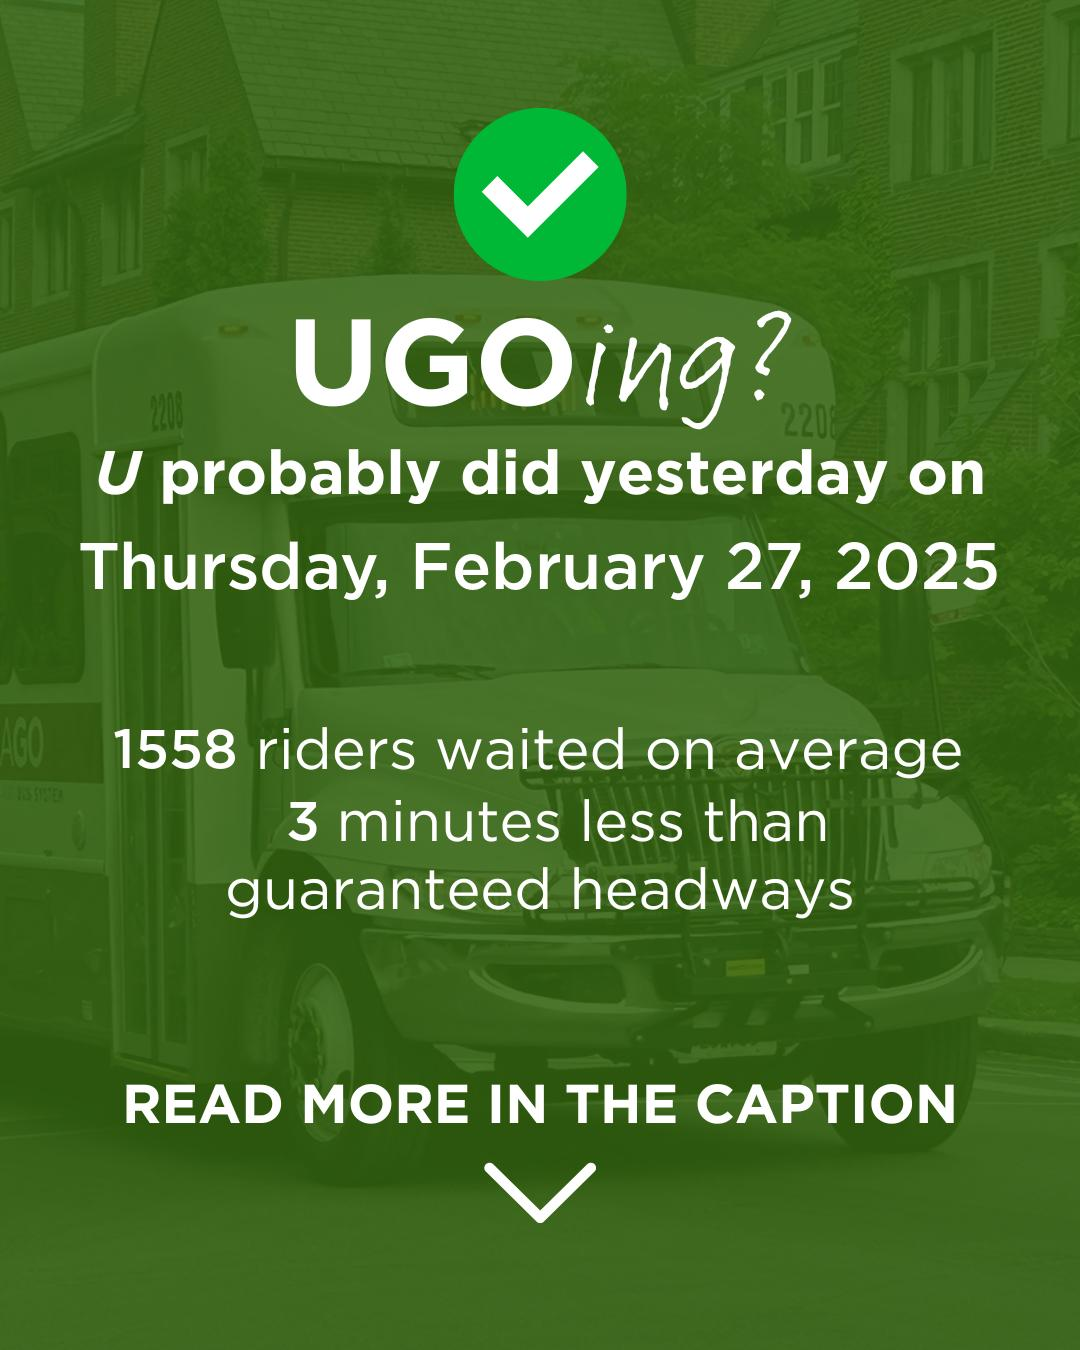
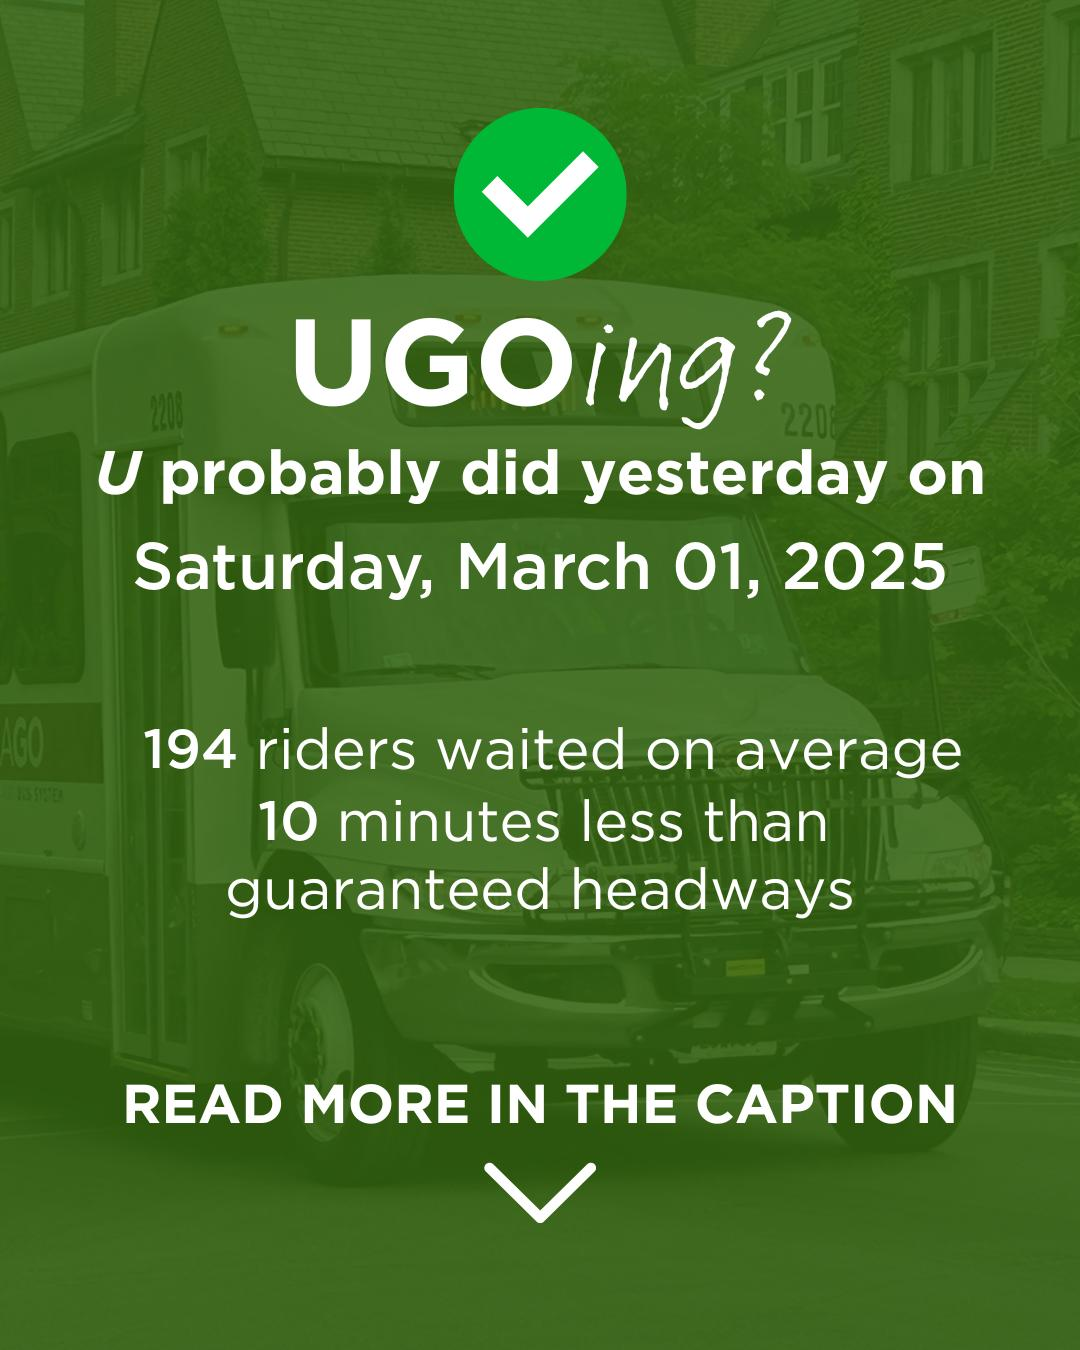
Update, attempted image for bsky

Changed region(s): [[0.0611, 0.4044, 0.9472, 0.4667], [0.0917, 0.5289, 0.2139, 0.5911], [0.2444, 0.5911, 0.3056, 0.6222]]

diff --git a/util.py b/util.py
@@ -6,6 +6,7 @@ import requests
 from datetime import datetime, date, time, timedelta
 import io
 import pytz
+from PIL import Image, ImageDraw, ImageFont
 #import passiogo  https://github.com/athuler/PassioGo
 
 from secret import API_KEY
@@ -156,17 +157,17 @@ def route_averages(timetype='day'):
     
         # Check both route ID and route name
         if route_id == 48618 or route_name == 'Red Line/Arts Block':
-            daytime_score[route_name] = headway - 30
+            daytime_score[route_name] = headway - 20
         elif route_id == 38732 or route_name == '53rd Street Express':
             daytime_score[route_name] = headway - 30
         elif route_id == 38729 or route_name == 'Apostolic':
             daytime_score[route_name] = headway - 30
         elif route_id == 38730 or route_name == 'Apostolic/Drexel':
-            daytime_score[route_name] = headway - 30
-        elif route_id == 38728 or route_name == 'Dresel':
-            daytime_score[route_name] = headway - 30
+            daytime_score[route_name] = headway - 15
+        elif route_id == 38728 or route_name == 'Drexel':
+            daytime_score[route_name] = headway - 10
         elif route_id == 50198 or route_id == 50199 or route_name == 'Downtown Campus Connector':
-            daytime_score[route_name] = headway - 30
+            daytime_score[route_name] = headway - 20
         elif route_id == 38731 or route_id == 38809 or route_name == 'Midway Metra':
             daytime_score[route_name] = headway - 30
         else:
@@ -196,7 +197,7 @@ def route_averages(timetype='day'):
         elif route_id == 40515 or route_name == 'Regents Express':
             nightime_score[route_name] = headway - 30
         elif route_name == 'South Loop Shuttle':
-            nightime_score[route_name] = headway - 30
+            nightime_score[route_name] = headway - 60
         else:
             pass
 
@@ -256,12 +257,12 @@ def call_them_out(timetype='day'):
                 #print(f"{route_name} ran {abs(int(delay))} minutes ahead of schedule on average")
                 ontime_daytime += 1
     
-    daytime_ratio = ontime_daytime / total_daytime
-    nighttime_ratio = ontime_nighttime / total_nighttime
+    daytime_ratio = ontime_daytime / total_daytime if total_daytime else 0
+    nighttime_ratio = ontime_nighttime / total_nighttime if total_daytime else 0
     total_ratio = (ontime_daytime + ontime_nighttime) / (total_daytime + total_nighttime)
-    average_delay = np.mean(delaynums)
-    average_delay_daytime = np.mean(delaynums_daytime)
-    average_delay_nighttime = np.mean(delaynums_nighttime)
+    average_delay = np.mean(delaynums) if len(delaynums) > 0 else 0
+    average_delay_daytime = np.mean(delaynums_daytime) if len(delaynums_daytime) > 0 else 0
+    average_delay_nighttime = np.mean(delaynums_nighttime) if len(delaynums_nighttime) > 0 else 0
 
     return daytime_ratio, nighttime_ratio, delayed_daytime_routes, delayed_nighttime_routes, average_delay, average_delay_daytime, average_delay_nighttime, total_ratio
 
@@ -431,12 +432,14 @@ def generate_status_text():
     message3 = ""
     
     # Format daytime information
-    daytime_pct = f"{round(daytime_ratio * 100, 1)}%"
-    message2 += f"☀ During the day, {daytime_pct} of daytime routes ran on time."
-    if delayed_daytime_routes and (average_delay_daytime is not None):
-        routes_str = ", ".join(delayed_daytime_routes)
-        message2 += f" The {routes_str} routes suffered delays averaging {round(average_delay_daytime, 1)} minutes."
-    #message2 += "\n"
+    if daytime_ratio == 0:
+        message2 = f"Daytime routes did not run yesterday, {date_str}. Daytime shuttle routes run Monday through Friday"
+    else:
+        daytime_pct = f"{round(daytime_ratio * 100, 1)}%"
+        message2 = f"☀ During the day, {daytime_pct} of daytime routes ran on time."
+        if delayed_daytime_routes and (average_delay_daytime is not None):
+            routes_str = ", ".join(delayed_daytime_routes)
+            message2 += f" The {routes_str} routes suffered delays averaging {round(average_delay_daytime, 1)} minutes."
     
     # Format nighttime information
     nighttime_pct = f"{round(nighttime_ratio * 100, 1)}%"
@@ -446,5 +449,125 @@ def generate_status_text():
         message3 += f" The {routes_str} routes suffered delays averaging {round(average_delay_nighttime, 1)} minutes."
     
     return message1, message2, message3
+
+def make_photo(img_type="good"):
+    """
+    Takes in the same data thats going into the caption and returns the image to be used in IG post.
+    """
+    (daytime_ratio, nighttime_ratio,
+    delayed_daytime_routes, delayed_nighttime_routes,
+    average_delay, average_delay_daytime, average_delay_nighttime, total_ratio) = call_them_out()
+    
+    (df_total_ridership, total_ridership, hour_mostridership, 
+    hour_mostridershipval) = get_passengers(timetype='day')
+
+    yesterday = datetime.now() - timedelta(days=1)
+    date_str = yesterday.strftime("%A, %B %d, %Y")
+
+    def get_left_aligned_x(anchor_x, text, font):
+        """ Adjusts text position so it expands leftward from the anchor point. """
+        text_bbox = font.getbbox(text)
+        text_width = text_bbox[2] - text_bbox[0]  # Get text width
+        return anchor_x - text_width  # Shift left completely
+
+    if img_type == "good":
+        base_image_path = "images/goodtemplate.png"
+        output_image_path = "images/generated_image.jpg"
+
+        image = Image.open(base_image_path)
+        draw = ImageDraw.Draw(image)
+
+        font_path = "fonts/Gotham-Medium.otf" 
+        font_size = 55
+        font = ImageFont.truetype(font_path, font_size)
+        date_font = ImageFont.truetype(font_path, 65)
+        text_color = (255, 255, 255)
+
+        data_metrics = {
+            "date": str(date_str),
+            "ridership": str(total_ridership),
+            "averageheadway": str(int(abs(average_delay)))
+        }
+
+        # to center the date
+        img_width, img_height = image.size
+        date_text = data_metrics["date"]
+        text_bbox = date_font.getbbox(date_text)
+        text_width = text_bbox[2] - text_bbox[0]
+        centered_x = (img_width - text_width) // 2
+        date_position = (centered_x, 526.3)
+
+        orig_text_positions = {
+            "date": date_position,  # (x, y)
+            "ridership": (238, 715),
+            "averageheadway": (320, 787)
+        }
+
+        ridership_x = get_left_aligned_x(orig_text_positions["ridership"][0], data_metrics["ridership"], font)
+        avg_headway_x = get_left_aligned_x(orig_text_positions["averageheadway"][0], data_metrics["averageheadway"], font)
+
+        text_positions = {
+            "date": date_position,  # (x, y)
+            "ridership": (ridership_x, 715),
+            "averageheadway": (avg_headway_x, 787)
+        }
+
+        for key, text in data_metrics.items():
+            position = text_positions[key]
+            if key == "date":
+                draw.text(position, text, fill=text_color, font=date_font, align="center")
+            else:
+                draw.text(position, text, fill=text_color, font=font, align="center")
+    elif img_type == "bad":
+            base_image_path = "images/badtemplate.png"
+            output_image_path = "images/generated_image.jpg"
+
+            image = Image.open(base_image_path)
+            draw = ImageDraw.Draw(image)
+
+            font_path = "fonts/Gotham-Medium.otf" 
+            font_size = 55
+            font = ImageFont.truetype(font_path, font_size)
+            date_font = ImageFont.truetype(font_path, 65)
+            text_color = (255, 255, 255)
+
+            data_metrics = {
+                "date": str(date_str),
+                "ridership": str(total_ridership),
+                "averageheadway": str(int(abs(average_delay)))
+            }
+
+            # to center the date
+            img_width, img_height = image.size
+            date_text = data_metrics["date"]
+            text_bbox = date_font.getbbox(date_text)
+            text_width = text_bbox[2] - text_bbox[0]
+            centered_x = (img_width - text_width) // 2
+            date_position = (centered_x, 526.3)
+
+            orig_text_positions = {
+                "date": date_position,  # (x, y)
+                "ridership": (248, 715),
+                "averageheadway": (310, 787)
+            }
+
+            ridership_x = get_left_aligned_x(orig_text_positions["ridership"][0], data_metrics["ridership"], font)
+            avg_headway_x = get_left_aligned_x(orig_text_positions["averageheadway"][0], data_metrics["averageheadway"], font)
+
+            text_positions = {
+                "date": date_position,  # (x, y)
+                "ridership": (ridership_x, 715),
+                "averageheadway": (avg_headway_x, 787)
+            }
+
+            for key, text in data_metrics.items():
+                position = text_positions[key]
+                if key == "date":
+                    draw.text(position, text, fill=text_color, font=date_font, align="center")
+                else:
+                    draw.text(position, text, fill=text_color, font=font, align="center")
+    image = image.convert("RGB")
+    image.save(output_image_path)
+    print(f"Image saved as {output_image_path}")
 
 #print(generate_status_text())

diff --git a/app.py b/app.py
@@ -4,19 +4,19 @@ import time
 import pytz
 import datetime
 from atproto import Client, models, client_utils
+from atproto_client.models.blob_ref import BlobRef
+from atproto_client.models.app.bsky.embed.images import Main, Image
+import os
 
 client = Client()
 client.login(BSKY_USERNAME, BSKY_PASSWORD)
 
 def post(message1: str, message2: str, message3: str):
     try:
-        # Post the first message (the thread root)
         response1 = client.send_post(message1)
         
-        # Create a strong reference for the first post
         root_ref = models.create_strong_ref(response1)
         
-        # Post the second message as a reply to the first post
         response2 = client.send_post(
             message2,
             reply_to=models.AppBskyFeedPost.ReplyRef(
@@ -25,7 +25,6 @@ def post(message1: str, message2: str, message3: str):
             )
         )
         
-        # Post the third message as a reply to the second post (but still part of the same thread)
         response3 = client.send_post(
             message3,
             reply_to=models.AppBskyFeedPost.ReplyRef(
@@ -33,13 +32,14 @@ def post(message1: str, message2: str, message3: str):
                 root=root_ref
             )
         )
-
+        
         print("Posted successfully!" if response3 else "Failed to post")
     except Exception as e:
         print(f"Error: {e}")
         raise
 
-ASAP = False  # Set to True to post immediately, for debugging
+
+ASAP = False
 
 def wait_until_post_time():
     tz = pytz.timezone("America/Chicago")
@@ -58,12 +58,13 @@ if __name__ == "__main__":
         if not ASAP:
             # Wait until the scheduled posting time, then generate fresh status text
             wait_until_post_time()
-            msg1, msg2, msg3 = generate_status_text()  # This is now called at posting time
+            msg1, msg2, msg3 = generate_status_text() 
             post(msg1, msg2, msg3)
-            # Pause briefly after posting (adjust as needed)
+            # pause briefly after posting
             time.sleep(60)
         else:
             # In ASAP mode, generate status text immediately and post
+            make_photo()
             msg1, msg2, msg3 = generate_status_text()
             post(msg1, msg2, msg3)
             time.sleep(1800)
